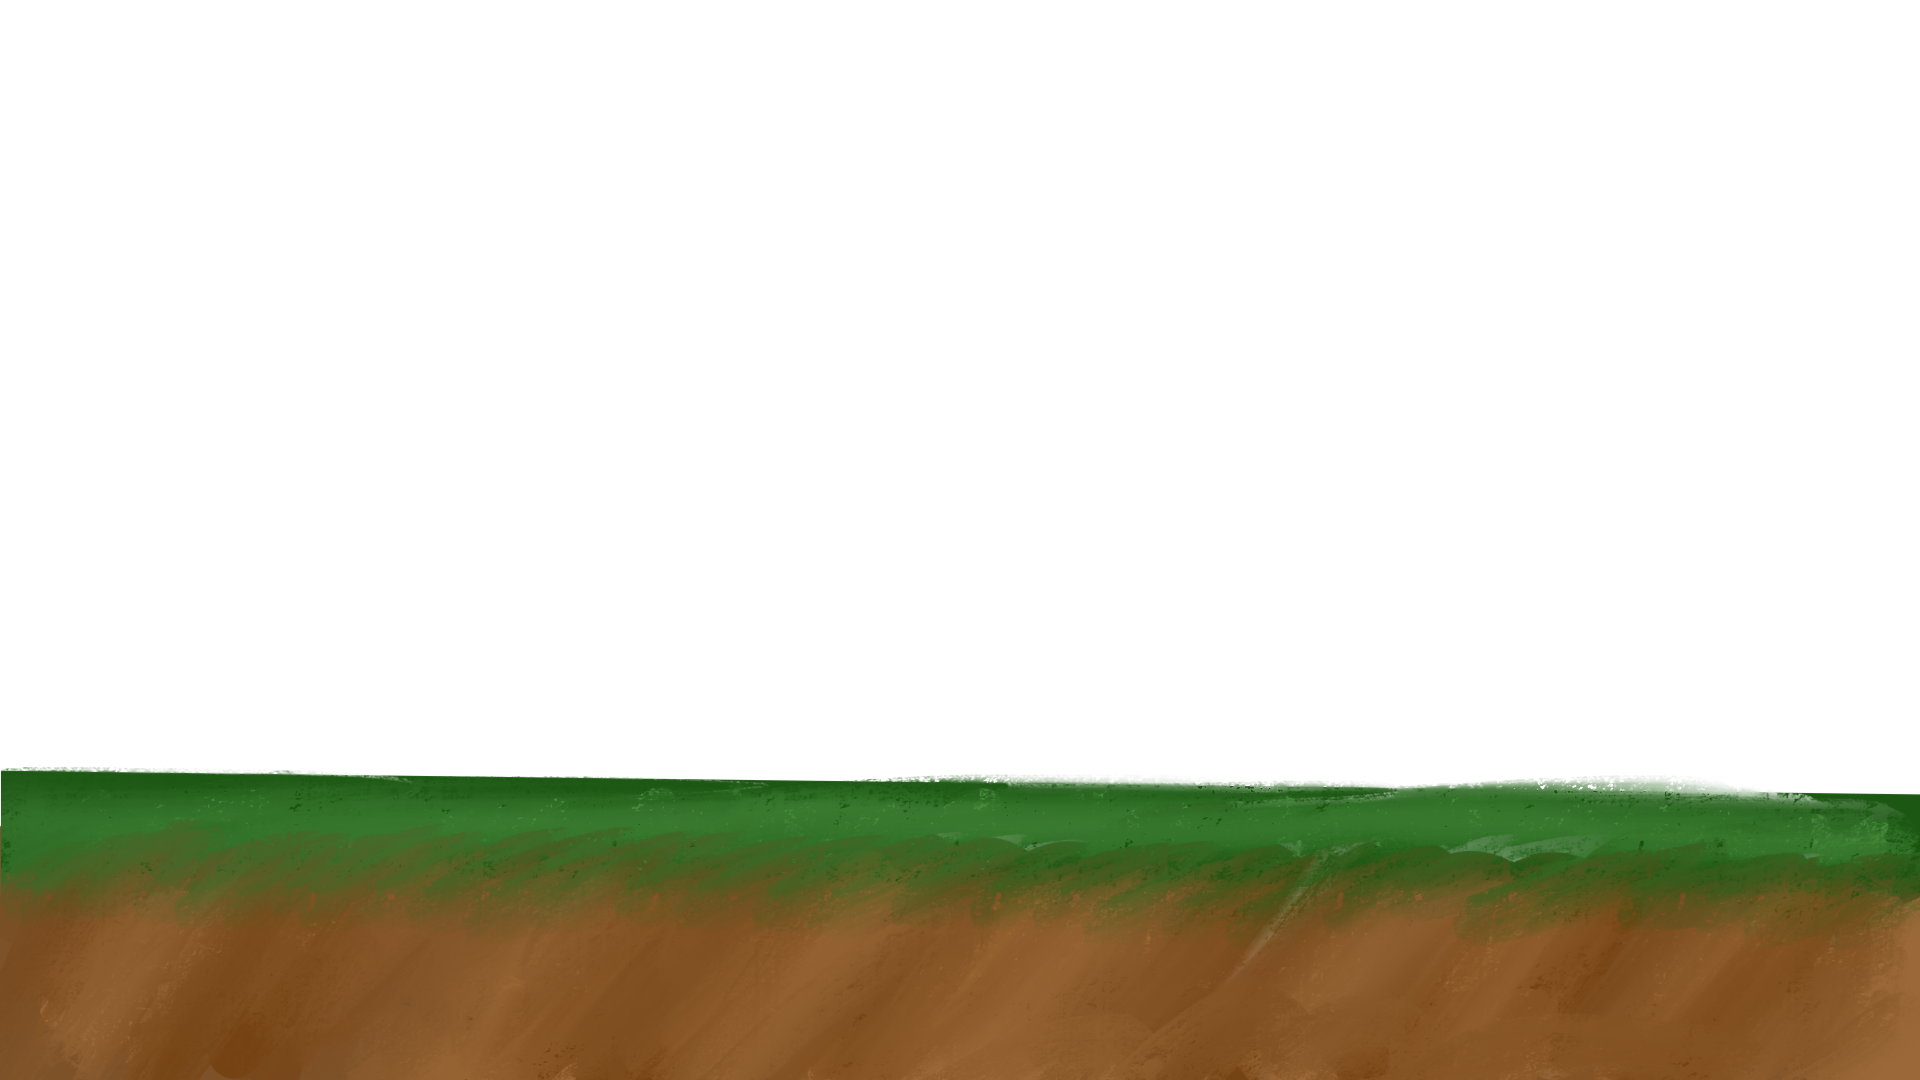
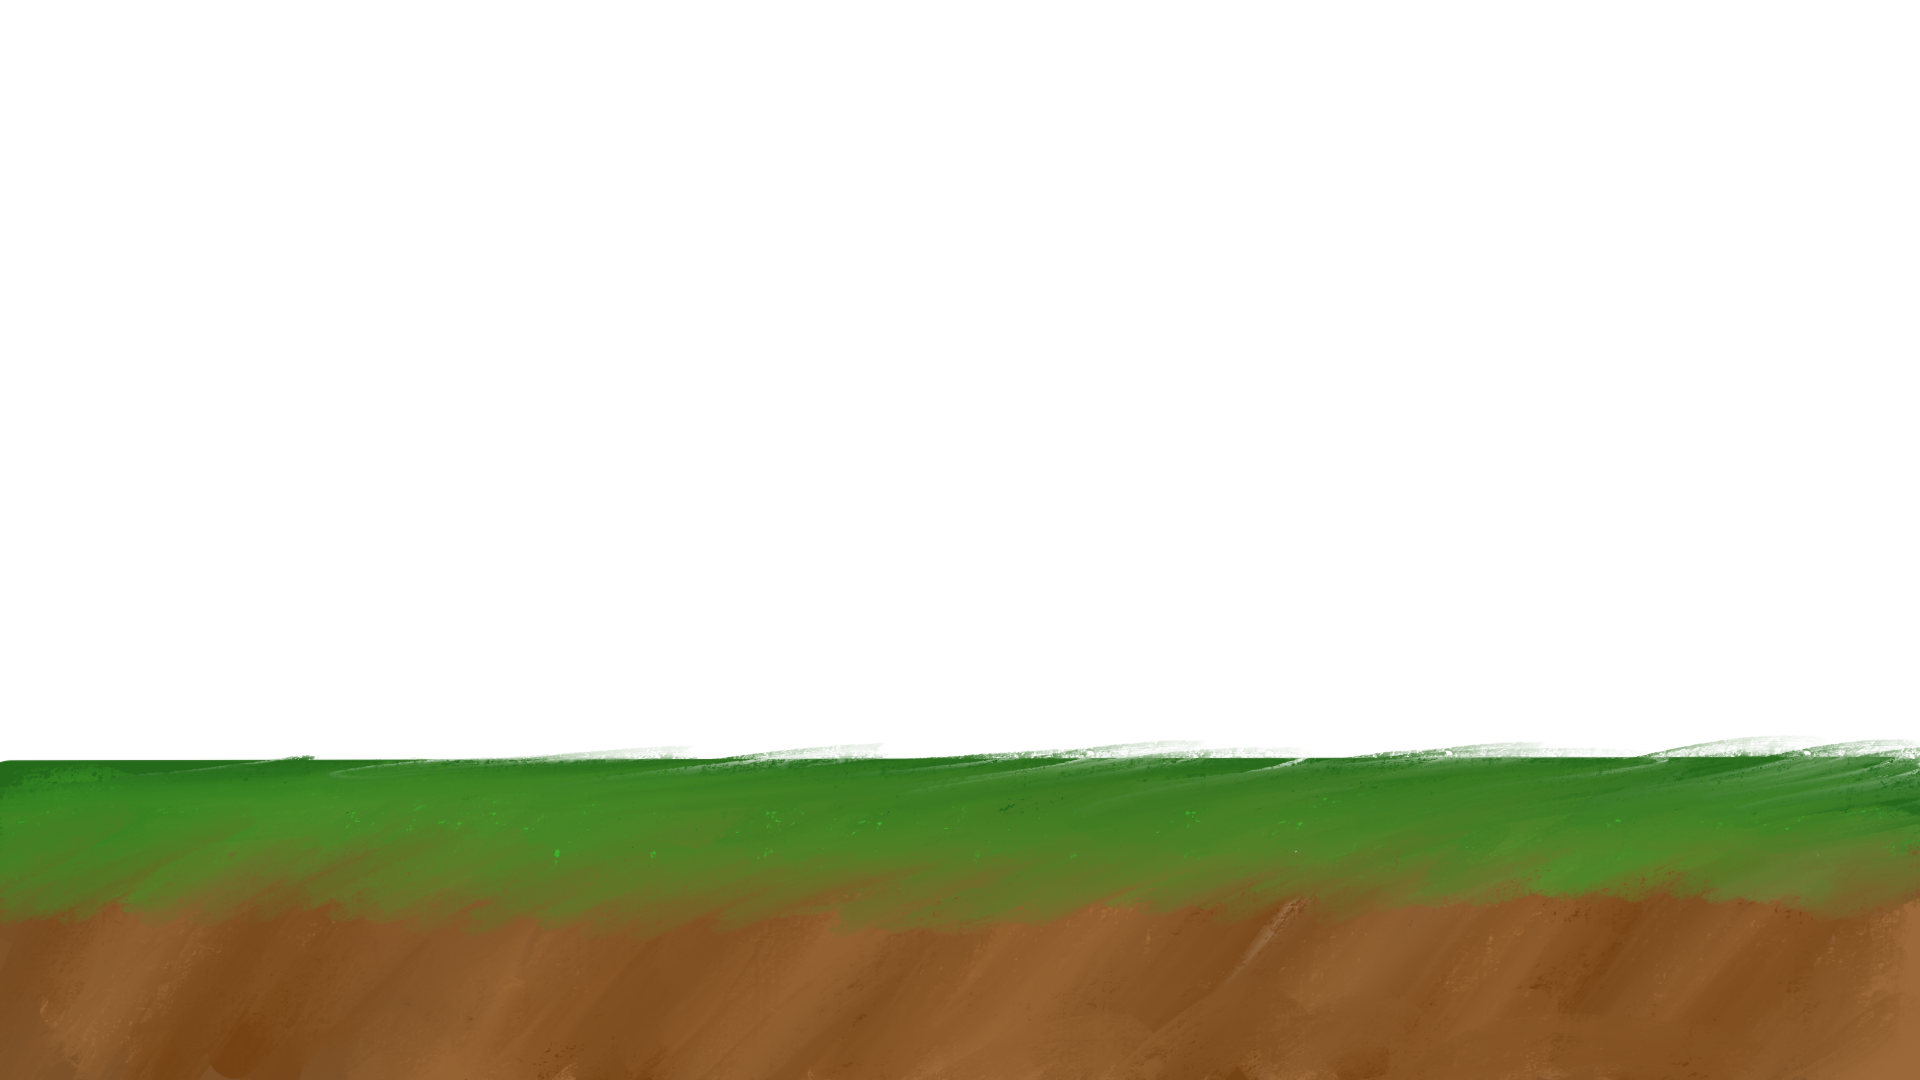
add gravity

Changed region(s): [[0.0, 0.6722, 1.0, 0.8556]]

diff --git a/MainApplication.java b/MainApplication.java
@@ -1,5 +1,5 @@
 
-package Project3;
+package StickmanGame;
 
 import java.awt.*;
 import java.awt.event.*;
@@ -52,72 +52,12 @@ public class MainApplication extends JFrame implements KeyListener{
         int[] map1 = {1,0,1,0,1}; 
         grassfloorLabel = new GrassfloorLabel(currentFrame, map1);
 
-        swimButton = new JButton("Swim");  
-        swimButton.addActionListener(new ActionListener(){
-            public void actionPerformed(ActionEvent e){
-
-            }
-        });
-        
-
-        stopButton = new JButton("Stop");
-        stopButton.addActionListener(new ActionListener() {
-        public void actionPerformed(ActionEvent e) {
-
-            }
-        });
-        
-
-        String[] speed = { "fast", "medium", "slow"};
-        combo = new JComboBox(speed);
-        combo.setSelectedIndex(1);
-        combo.addItemListener(new ItemListener() {
-            public void itemStateChanged(ItemEvent e) {
-
-            }
-        });
-
-        
-        tb = new JToggleButton[2];
-        bgroup = new ButtonGroup();      
-        tb[0] = new JRadioButton("Left");   tb[0].setName("Left");
-        tb[1] = new JRadioButton("Right");  tb[1].setName("Right"); 
-        tb[0].setSelected(true);
-
-        for (int i=0; i < 2; i++){
-            bgroup.add( tb[i] );
-            tb[i].addItemListener(new ItemListener() {
-            public void itemStateChanged(ItemEvent e) {
-
-                }
-            });
-        }
-    
-
-        moreButton = new JButton("More item");
-            moreButton.addActionListener(new ActionListener() {
-                public void actionPerformed(ActionEvent e) {
-                    
-                }
-            });
-
         currentLevel = new JTextField("0", 3);		
         currentLevel.setEditable(false);
 
         JPanel control  = new JPanel();
         control.setBounds(0,0,1000,50);
         control.add(new JLabel("Level - "));
-        control.add(currentLevel);
-        control.add(swimButton);
-        control.add(stopButton);
-        control.add(combo);
-        control.add(tb[0]);
-        control.add(tb[1]);
-        control.add(new JLabel("                 "));
-        control.add(new JLabel("Item Control : "));
-        control.add(moreButton);
-        control.add(new JLabel("                 "));
-        control.add(new JLabel("Score : "));
 
         drawpane = new JLabel();
         drawpane.setLayout(null);
@@ -125,8 +65,22 @@ public class MainApplication extends JFrame implements KeyListener{
         drawpane.add(stickmanLabel);
         drawpane.add(grassfloorLabel);
         contentpane.add(control, BorderLayout.NORTH);
-        contentpane.add(drawpane, BorderLayout.CENTER);   
+        contentpane.add(drawpane, BorderLayout.CENTER);  
+        setStickmanThread(); 
         validate(); //To Update Components Added
+    }
+
+    public void setStickmanThread(){
+        Thread stickmanThread = new Thread() {
+            public void run()
+            {
+                while (true)
+                {
+                    stickmanLabel.stickmanGravity();
+                }          
+            } 
+        }; 
+        stickmanThread.start();
     }
 
     @Override
@@ -168,14 +122,18 @@ class StickManLabel extends JLabel{
     //Size based on original image
     private int width = 348/2, height  = 493/2;
     private int curX = 0, curY = 0;
-    private int speed = 200;
+    private int floorHeight;
+    private int speed = 20;
+    private int gravity = 20;
 
     public StickManLabel(MainApplication pf){
         parentFrame = pf;
         frameWidth = parentFrame.getWidth();
         frameHeight = parentFrame.getHeight();
+        floorHeight = frameHeight / 2 - 50;
         curX = frameWidth / 20;
-        curY = frameHeight / 2 - 50;
+        curY = floorHeight;
+        
 
         StickMan = new MyImageIcon(imagePath).resize(width, height);
         setIcon(StickMan);
@@ -184,18 +142,33 @@ class StickManLabel extends JLabel{
 
     public void moveLeft(){
         if(getX() - speed > 0) setLocation( getX() - speed, getY());
-        else setLocation( frameWidth - offsetX, getY());
+        else setLocation( frameWidth, getY());
     }
     
     public void moveRight(){
-        if(getX() + speed < frameWidth - offsetX) setLocation( getX() + speed, getY());
+        if(getX() + speed < frameWidth) setLocation( getX() + speed, getY());
         else setLocation( 0, getY());
     }
 
     public void moveUp(){
-        if(getX() + speed < frameWidth - offsetX) setLocation( getX() + speed, getY());
-        else setLocation( 0, getY());
+        if(getY() == floorHeight) setLocation( getX(), getY() - 200);
     }
+
+    public void stickmanGravity(){
+        System.out.println("curr: " + getY() + " floor: " + floorHeight);
+        if(getY() != floorHeight){
+            if(getY() - gravity < floorHeight){
+                setLocation(getX(), getY() + gravity);
+            }
+            else{
+                setLocation(getX(), floorHeight);
+            }
+            repaint();
+            try { Thread.sleep(50); } 
+            catch (InterruptedException e) { e.printStackTrace(); } 
+        }
+    }
+
 }
 
 class GrassfloorLabel extends JLabel{
@@ -204,7 +177,7 @@ class GrassfloorLabel extends JLabel{
     private int[] layout;
 
     //String imagePath = "src/main/java/Project3/resources/Grassfloor.png"; //Maven
-    String imagePath = "./resources/Grassfloor2.png";
+    String imagePath = "./resources/Grassfloor.png";
     
     //Size and Bounds
     private int width, height;
